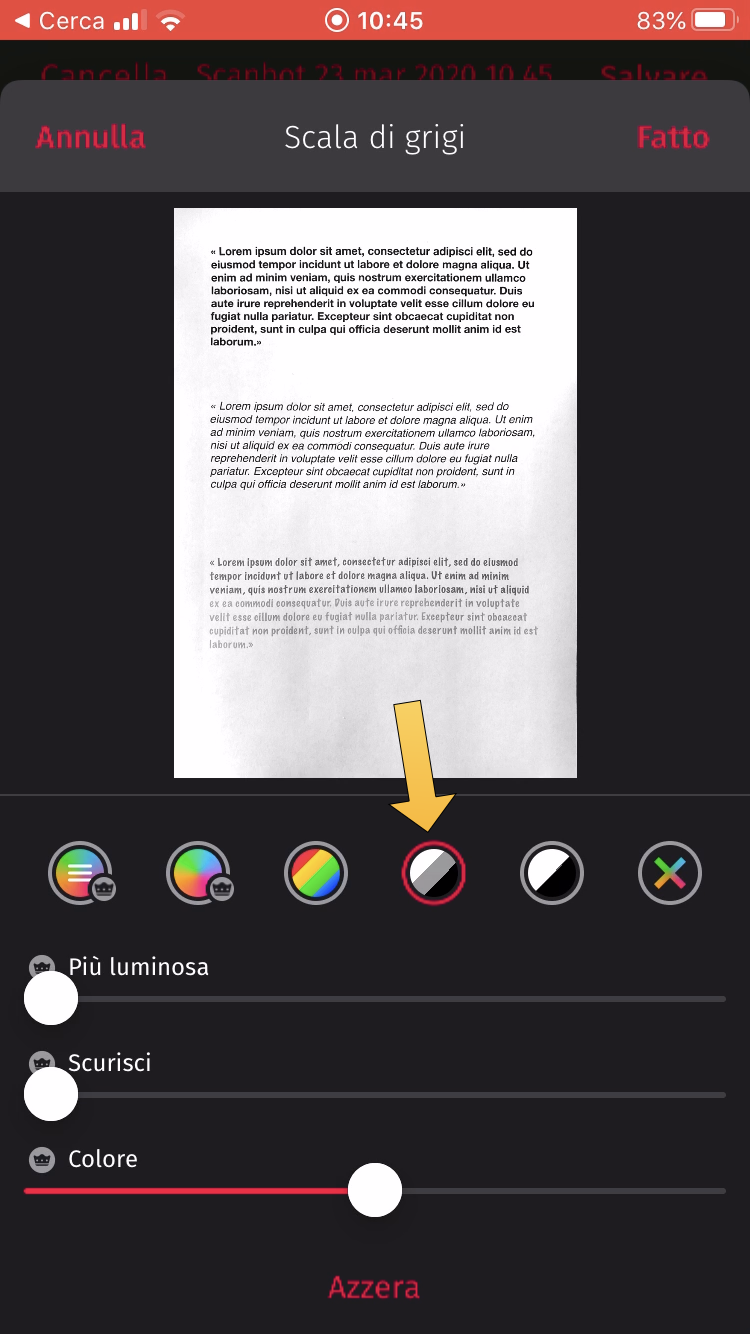
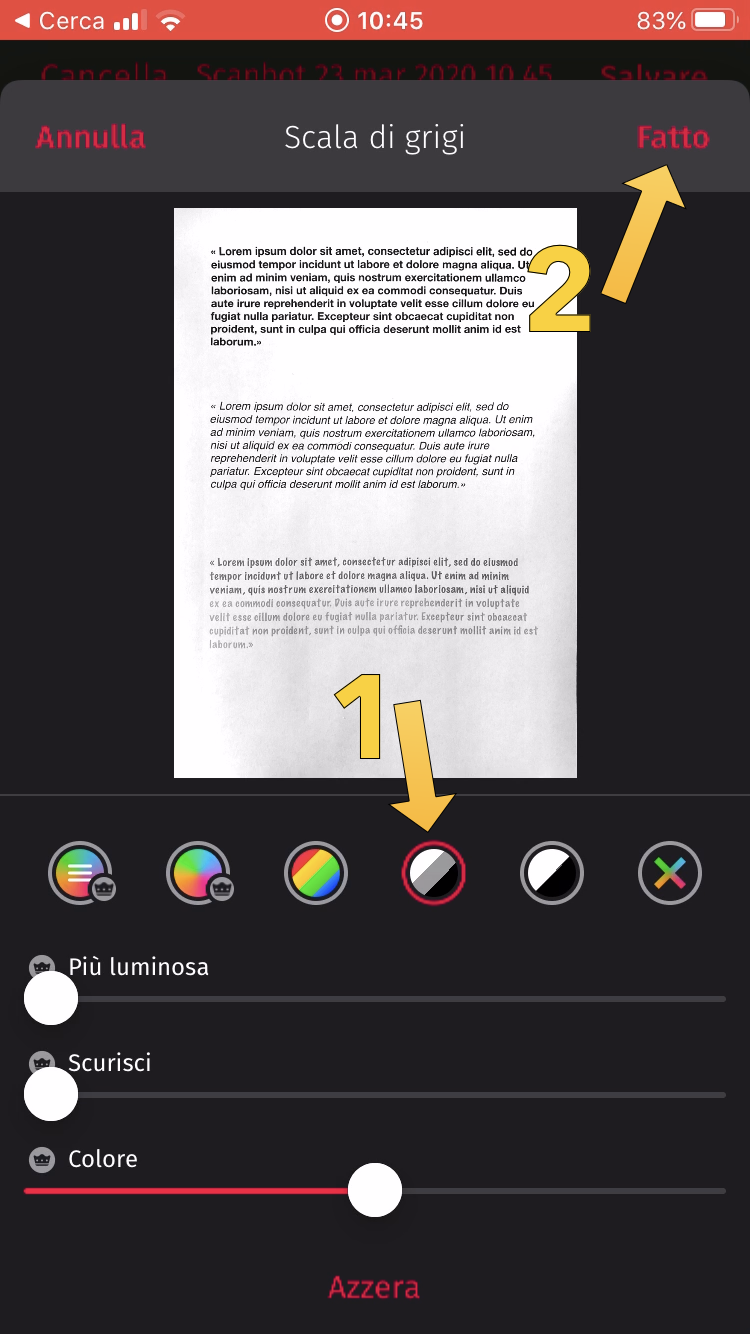
new

Changed region(s): [[0.7053, 0.1229, 0.92, 0.2459], [0.46, 0.4918, 0.5213, 0.584]]

diff --git a/scanner.md b/scanner.md
@@ -26,7 +26,7 @@
 
 5. Se l'app non scatta in automatico premiamo il pulsante circolare in basso al centro
 
-6. Ripetiamo l'operazione per tutte le pagine che dobbiamo inviare
+6. **Ripetiamo l'operazione** per tutte le pagine che dobbiamo inviare
 
 7. A questo punto premiamo il numero di pagine in basso a destra
 
@@ -36,9 +36,13 @@
 
     ![Colore](/img/colore.png){:width="50%"}
 
-9. Clicchiamo sul simbolo con la "scala di grigi"
+9. Clicchiamo sul simbolo con la "scala di grigi" e poi su "fatto"
 
     ![Colore](/img/scala-di-grigi.png){:width="50%"}
+
+10. A questo punto possiamo cambiare il nome al file
+
+    ![Colore](/img/nome.png){:width="50%"}
 
 ---
 [Torna alla home](index.md)
